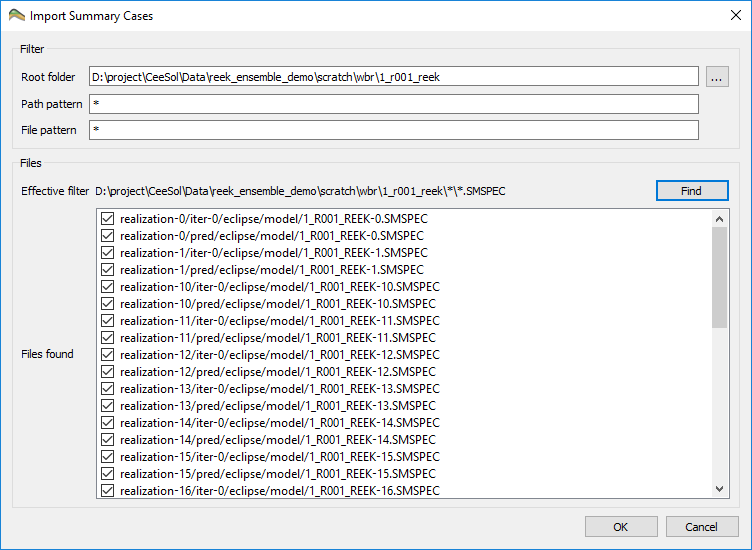
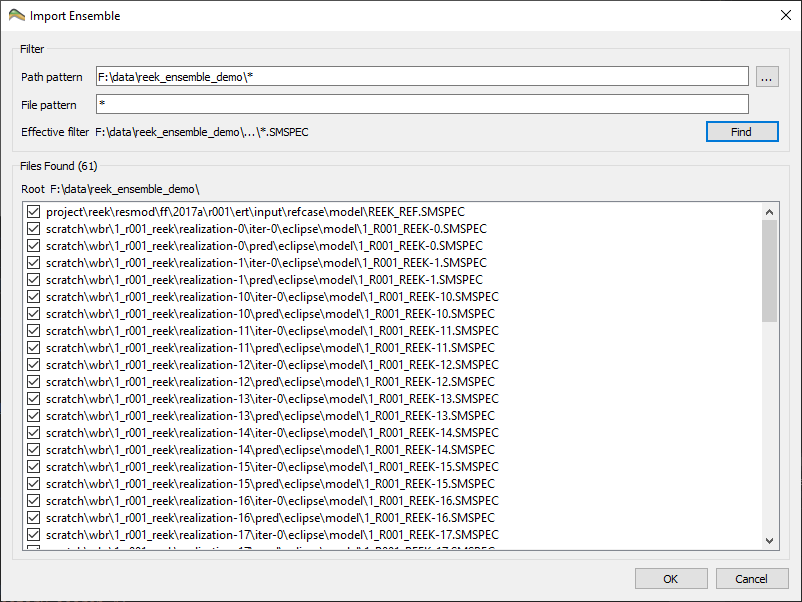
Update summary doc

Changed region(s): [[0.0, 0.0, 1.0, 1.0], [0.9481, 0.0, 1.0, 0.0309]]

diff --git a/content/plot-window/SummaryPlots.md b/content/plot-window/SummaryPlots.md
@@ -8,7 +8,13 @@ weight = 10
 
 A Summary Plot is a window displaying a graph in the main area of the **Plot Main Window**. It can contain Summary Curves, Grid time history curves and pasted ascii curves ( See below ).
 
-A new plot can be created by using the right-click menu of a plot selecting {{< image-in-text src="images/plot-window/SummaryPlot16x16.png" >}} **New Summary Plot**. The [Summary Plot Editor]({{< relref "summaryploteditor" >}}) dialog will then open.
+A new plot can be created by using the right-click menu of a plot in the **Plot Project Tree** and activate {{< image-in-text src="images/plot-window/SummaryPlot16x16.png" >}} **Open Summary Plot Editor**. The [Summary Plot Editor]({{< relref "summaryploteditor" >}}) dialog will then open.
+
+Activating {{< image-in-text src="images/plot-window/SummaryPlot16x16.png" >}} **New Summary Plot** from the right-click menu of a plot will create a new plot populated with the curves defined by the text string in [Preferences]({{< relref "preferences.md#summary-tab" >}}).
+
+{{% notice info %}}
+If you have many open plots, it can be useful to collapse all other plots. This is available by activating the item **Collapse Other Plots** from right-click menu of a plot in the <b>Plot Project Tree</b>.
+{{% /notice %}}
 
 ## Plot Data
 
@@ -67,8 +73,9 @@ Most of the settings for the Plot itself is controlled by its sub items in the P
   - **Time Mode** -- Option to show the time from Simulation Start, or as real date-times. 
   - **Time Unit** -- The time unit used to display **Time From Simulation Start** 
   - **Max**/**Min** -- The range of the visible time in the Plot in the appropriate time unit.  
-    The format of dates is _`yyyy-mm-ddThh:mm:ssZ`_ 
-  - **Font Size** -- The font size used for the date/times shown at the ticks of the axis 
+  - **Date Format** -- Date format for the time axis. Defaults to the setting defined in **Preferences**
+  - **Time Format** -- Time format for the time axis. Defaults to the setting defined in **Preferences**
+  - **Font Size** -- The font size used for the date/times shown at the ticks of the axis. Defaults to the setting defined in **Preferences**
 
 ### Y-axis Properties
 
@@ -84,6 +91,7 @@ Most of the settings for the Plot itself is controlled by its sub items in the P
   - **Font Size** --  Defines the font size used by the axis title. 
 - **Axis Values**
   - **Logarithmic Scale**  - Draw plot curves using a logarithmic scale. 
+  - **Invert Axis**  - Invert the axis. Used when depth is represented on the Y-axis.
   - **Number Format** -- Defines how the legend numbers are formatted.
     - **Auto** -- Legend numbers are either using a scientific or decimal notation based on the number of digits of the value
     - **Decimal** -- Legend numbers are displayed using decimal notation.
@@ -103,14 +111,19 @@ Most of the settings for the Plot itself is controlled by its sub items in the P
 - **Window Zoom** -- Window zoom is available by dragging the mouse when the left mouse button is pressed. Use {{< image-in-text src="images/plot-window/ZoomAll16x16.png" >}} **Zoom All** to restore default zoom level.
 - **Wheel Zoom** -- The mouse wheel will zoom the plot in and out towards the current mouse cursor position.
 
+### Curve Hightlight
+
+![]({{< relref "" >}}images/plot-window/SummaryCurveHighlight.png)
+
+Summary curves will be highlighted when left-clicked in a plot. This allows for detailed investigation on curve values when many curves are plotted. All other curves can be hidden by activating the right-click menu of a plot, and select **On - Ohters Off**
+
 ### Accessing the Plot Data
 
-The command context command **Show Plot Data** will show a window containing the plot data in ascii format. The content of this window is easy to copy and paste into Excel or other tools for further processing.
+The right-click menu item **Show Plot Data** will open a window containing the plot data as text in columns. The text content of this window is easy to copy and paste into Excel or other tools for further processing.
 
-This dialog supports plot data displayed by day, week, month, Quarter, half year and year.
+This dialog supports plot data displayed by day, week, month, quarter, half year and year.
 
-It is also possible to save the ascii data to a file directly by using the context command **Export Plot Data to Text File** on the plot. 
-
+It is also possible to save the text data to a file directly by using the right-click command **Export Plot Data to Text File**. 
 
 ## Summary Curves
 
@@ -217,23 +230,20 @@ Copy and Paste of selections of Summary Plots and Curves, is possible using the 
 ## Recursive summary file import
 When using the standard file selection dialog, the user is limited to select files in one directory only. If the interesting files are distributed over multiple directories, the dialog has to be opened once for each directory. The recursive file selection dialog is created to circumvent this limitation. This dialog is able to search a directory tree for files matching a specified pattern.
 
-![]({{< relref "" >}}images/plot-window/RecursiveImportDialog1.png)
+![]({{< relref "" >}}images/plot-window/RecursiveImportDialog2.png)
 
 The dialog consists of the following fields:
 
-- **Root Folder**: The root directory where the file search starts. Text may be entered directly into the field. Alternatively press the browse button to display the directory selection dialog.
-- **Path Pattern**: The search pattern that applies to the start of the relative search path. If the pattern does not end with a "\*", an implicit wildcard is added silently. Supported wildcards:
-  - **\*** Matches any number of any characters except the directory separator
+- **Path Pattern**: The path filter uses normal wildcard file globbing, like in any unix shell. When the filter ends with a single "**" (eg. "/home/*"), however, ResInsight will search recursively in all subdirectories from that point. This is indicated by "..." in the **Effective Filter** label below.
+  - **\*** Matches any number of any characters except the path separator
   - **?** Matches one character exception the directory separator
   - **[abc]** Matches one of the specified characters. Ex. a, b or c
 - **File Pattern**: The search pattern that applies to the file name.
-- **Effective Filter**: The effective filter displays the resulting full path search pattern. It is updated on the fly as the user edits the pattern fields.
+- **Effective Filter**: The effective filter displays the resulting full path search pattern. It is updated on the fly as the user edits the pattern fields. A text string of "..." indicates a complete recursive directory search.
 
-After pressing the "Find" button, a file search is performed in the root directory and the directories below matching the path pattern. The files found are presented in a list, where the user can check/uncheck each file individually.
+After pressing the **Find** button, a file search is performed in the root directory and the directories below matching the path pattern. The files found are presented in a list, where the user can check/uncheck each file individually.
 
-![]({{< relref "" >}}images/plot-window/RecursiveImportDialog2.png)
-
-When the "OK" button is pressed, all checked files are imported.
+When the **OK** button is pressed, all checked files are imported.
 
 ### Origin Files
 ![]({{< relref "" >}}images/plot-window/OriginFileDialog.png)
